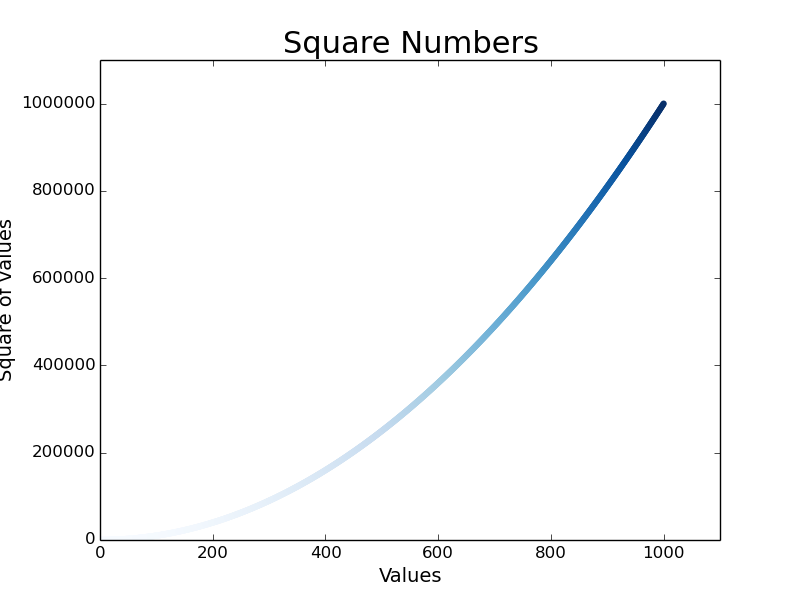
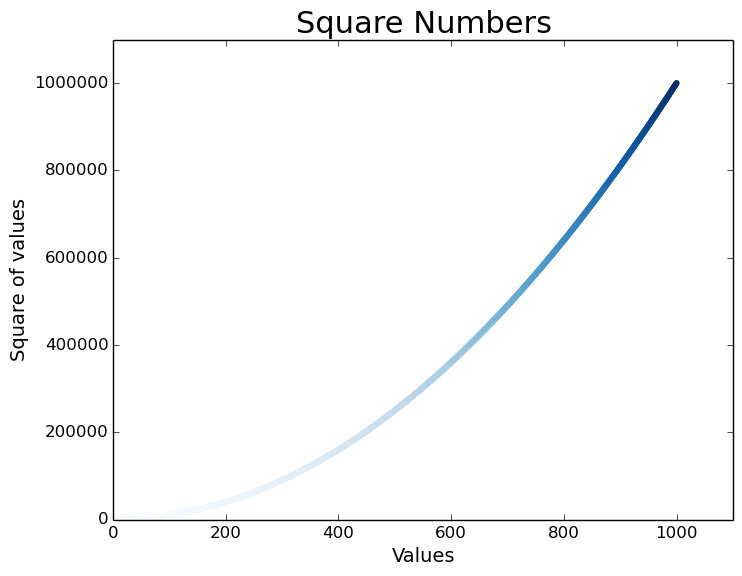
colormap modules

diff --git a/colormap.py b/colormap.py
@@ -3,11 +3,12 @@ import matplotlib.pyplot as plt
 x_values = list(range(1, 1001))
 y_values = [x**2 for x in x_values]
 
-plt.scatter(x_values, y_values, c=y_values, cmap=plt.cm.Blues, edgecolor='none', s = 20)
+plt.scatter(x_values, y_values, c=y_values, cmap=plt.cm.Blues, edgecolor='none', s = 20) #we need add s in all colors we need for example Blues, Reds
 plt.title("Square Numbers", fontsize=22)
 plt.xlabel("Values", fontsize=14)
 plt.ylabel("Square of values", fontsize=14)
 #plt.tick_params(axis='both', which='major', labelsize=10)
 plt.axis([0, 1100, 0, 1100000])
 
+plt.savefig('color.png', bbox_inches='tight') #to save in png we need to use this command
 plt.show()
